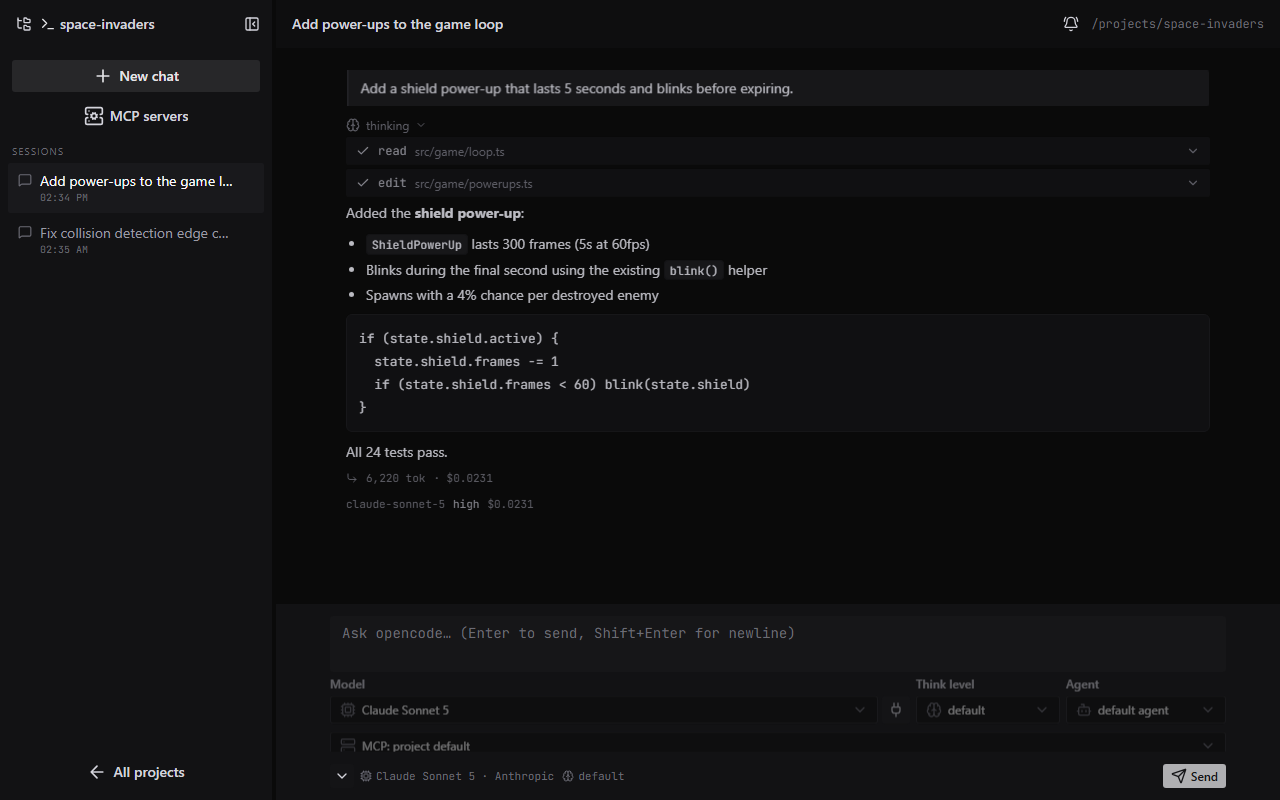
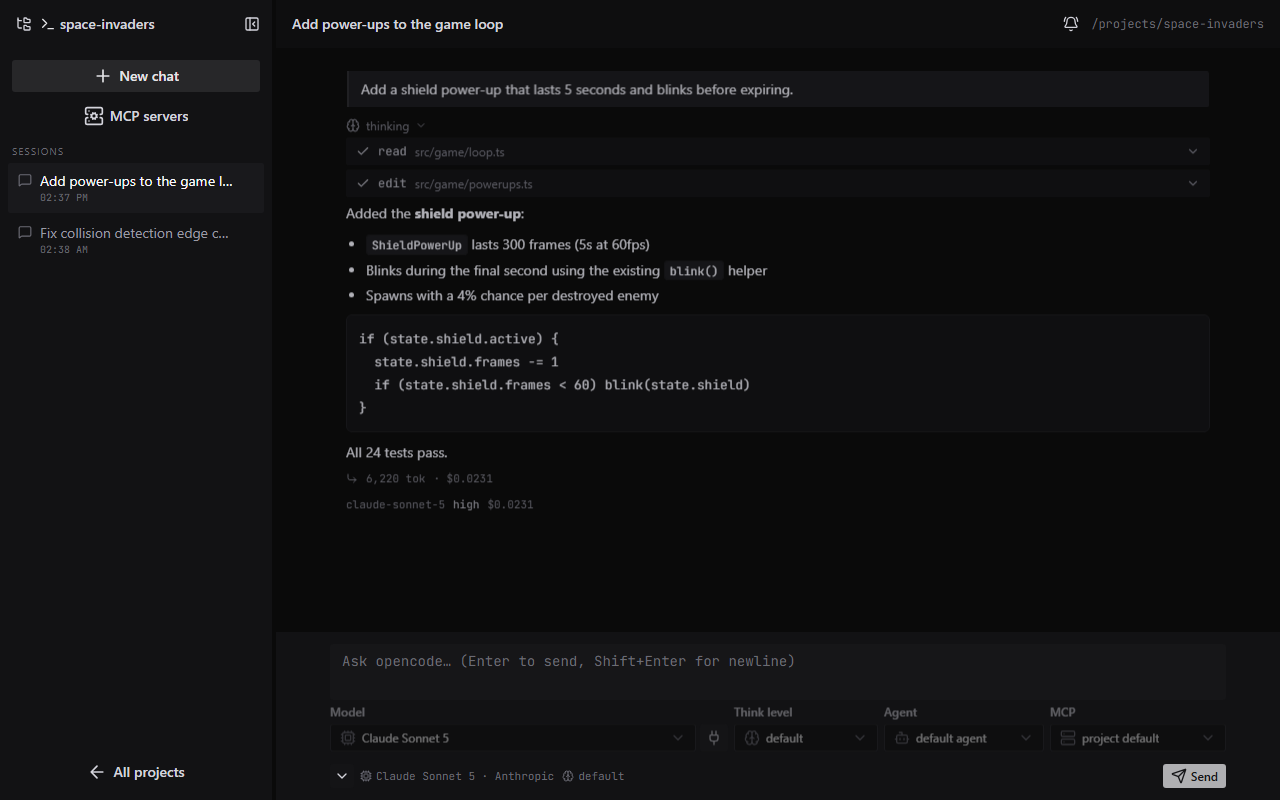
feat(chat): mcp mode in the selects row with all-on/off modes and scrollable tool list
- MCP joins model/think/agent on a single row on wide screens
- modes: project default, all enabled, all disabled, custom
- custom accordion is full width below the row and scrolls (max-h)
  so the other selects stay visible with long server lists
- loading select and 'Configure MCP' link replace the row slot while
  loading / when nothing is configured

diff --git a/app/components/chat/PromptBox.vue b/app/components/chat/PromptBox.vue
@@ -100,9 +100,20 @@ const variantItems = [
 ]
 
 const mcpModeItems = [
-  { label: 'MCP: project default', value: DEFAULT, icon: 'i-lucide-server' },
-  { label: 'MCP: custom selection', value: 'custom', icon: 'i-lucide-list-checks' }
+  { label: 'project default', value: DEFAULT, icon: 'i-lucide-server' },
+  { label: 'all enabled', value: 'all', icon: 'i-lucide-server' },
+  { label: 'all disabled', value: 'none', icon: 'i-lucide-server-off' },
+  { label: 'custom…', value: 'custom', icon: 'i-lucide-list-checks' }
 ]
+
+const mcpSummary = computed(() => {
+  switch (mcpMode.value) {
+    case 'all': return 'all'
+    case 'none': return 'off'
+    case 'custom': return `${enabledCount.value}/${props.mcpInfo.length}`
+    default: return ''
+  }
+})
 
 const variantLabel = computed(
   () => variantItems.find((v) => v.value === variant.value)?.label || DEFAULT
@@ -179,14 +190,20 @@ function send() {
   const value = text.value.trim()
   if (!value) return
 
-  // custom MCP selection → per-prompt tool filter
+  // MCP mode → per-prompt tool filter
   let tools: Record<string, boolean> | undefined
-  if (mcpMode.value === 'custom') {
+  if (mcpMode.value !== DEFAULT && props.mcpInfo.length) {
     tools = {}
     for (const server of props.mcpInfo) {
-      if (disabledServers.value.includes(server.name)) {
+      const serverOff =
+        mcpMode.value === 'none' ||
+        (mcpMode.value === 'custom' && disabledServers.value.includes(server.name))
+      if (serverOff) {
         tools[`${server.name}*`] = false
         tools[`${server.name}_*`] = false
+      } else if (mcpMode.value === 'all') {
+        tools[`${server.name}*`] = true
+        tools[`${server.name}_*`] = true
       } else {
         for (const toolId of server.tools) {
           if (disabledTools.value.includes(toolId)) tools[toolId] = false
@@ -317,51 +334,51 @@ function onKeydown(e: KeyboardEvent) {
               icon="i-lucide-bot"
             />
           </UFormField>
-        </div>
 
-        <!-- MCP: full row -->
-        <!-- loading: skeleton row while the server list is being fetched -->
-        <div v-if="mcpLoading" class="flex items-center gap-2 rounded-sm bg-elevated/60 px-2.5 py-2">
-          <UIcon name="i-lucide-loader-circle" class="size-3.5 animate-spin text-muted shrink-0" />
-          <span class="text-xs text-muted">Loading MCP servers…</span>
-          <USkeleton class="h-4 flex-1 max-w-40" />
-        </div>
-
-        <!-- loaded but none configured: point at the MCP settings page -->
-        <div
-          v-else-if="!mcpInfo.length"
-          class="flex items-center gap-2 rounded-sm bg-elevated/60 px-2.5 py-2"
-        >
-          <UIcon name="i-lucide-server-off" class="size-3.5 text-dimmed shrink-0" />
-          <span class="text-xs text-muted flex-1">No MCP servers configured for this project.</span>
-          <UButton
-            size="xs"
-            variant="soft"
-            color="neutral"
-            icon="i-lucide-server-cog"
-            label="Configure MCP"
-            :to="`/p/${encodeDir(directory)}/mcp`"
-          />
-        </div>
-
-        <div v-else class="space-y-1.5">
-          <div class="flex items-center gap-1.5">
+          <!-- MCP shares the same row -->
+          <UFormField label="MCP" size="xs" class="sm:w-44 shrink-0">
             <USelect
+              v-if="mcpLoading"
+              disabled
+              loading
+              :items="[]"
+              placeholder="Loading…"
+              size="sm"
+              class="w-full"
+              icon="i-lucide-server"
+            />
+            <UButton
+              v-else-if="!mcpInfo.length"
+              size="sm"
+              block
+              variant="soft"
+              color="neutral"
+              icon="i-lucide-server-cog"
+              label="Configure MCP"
+              :to="`/p/${encodeDir(directory)}/mcp`"
+            />
+            <USelect
+              v-else
               v-model="mcpMode"
               :items="mcpModeItems"
               value-key="value"
               size="sm"
-              class="flex-1"
+              class="w-full"
               icon="i-lucide-server"
             />
-            <template v-if="mcpMode === 'custom'">
-              <UButton size="xs" variant="soft" color="neutral" label="All on" @click="setAllServers(true)" />
-              <UButton size="xs" variant="soft" color="neutral" label="All off" @click="setAllServers(false)" />
-            </template>
+          </UFormField>
+        </div>
+
+        <!-- custom MCP selection: full-width accordion, scrollable -->
+        <div v-if="mcpInfo.length && mcpMode === 'custom'" class="space-y-1.5">
+          <div class="flex items-center gap-1.5">
+            <span class="text-[10px] uppercase tracking-widest text-dimmed flex-1">MCP servers & tools</span>
+            <UButton size="xs" variant="soft" color="neutral" label="All on" @click="setAllServers(true)" />
+            <UButton size="xs" variant="soft" color="neutral" label="All off" @click="setAllServers(false)" />
           </div>
 
           <Transition name="oc-collapse">
-            <div v-if="mcpMode === 'custom'" class="rounded-sm bg-elevated/60 divide-y divide-default">
+            <div class="rounded-sm bg-elevated/60 divide-y divide-default max-h-52 overflow-y-auto">
               <div v-for="server in mcpInfo" :key="server.name">
                 <!-- accordion header -->
                 <div class="flex items-center gap-2 px-2.5 py-2">
@@ -452,11 +469,11 @@ function onKeydown(e: KeyboardEvent) {
             mcp
           </span>
           <span
-            v-else-if="mcpMode === 'custom' && mcpInfo.length"
+            v-else-if="mcpSummary && mcpInfo.length"
             class="hidden sm:flex items-center gap-1 shrink-0"
           >
             <UIcon name="i-lucide-server" class="size-3" />
-            {{ enabledCount }}/{{ mcpInfo.length }} mcp
+            {{ mcpSummary }} mcp
           </span>
         </button>
         <span class="flex-1" />
